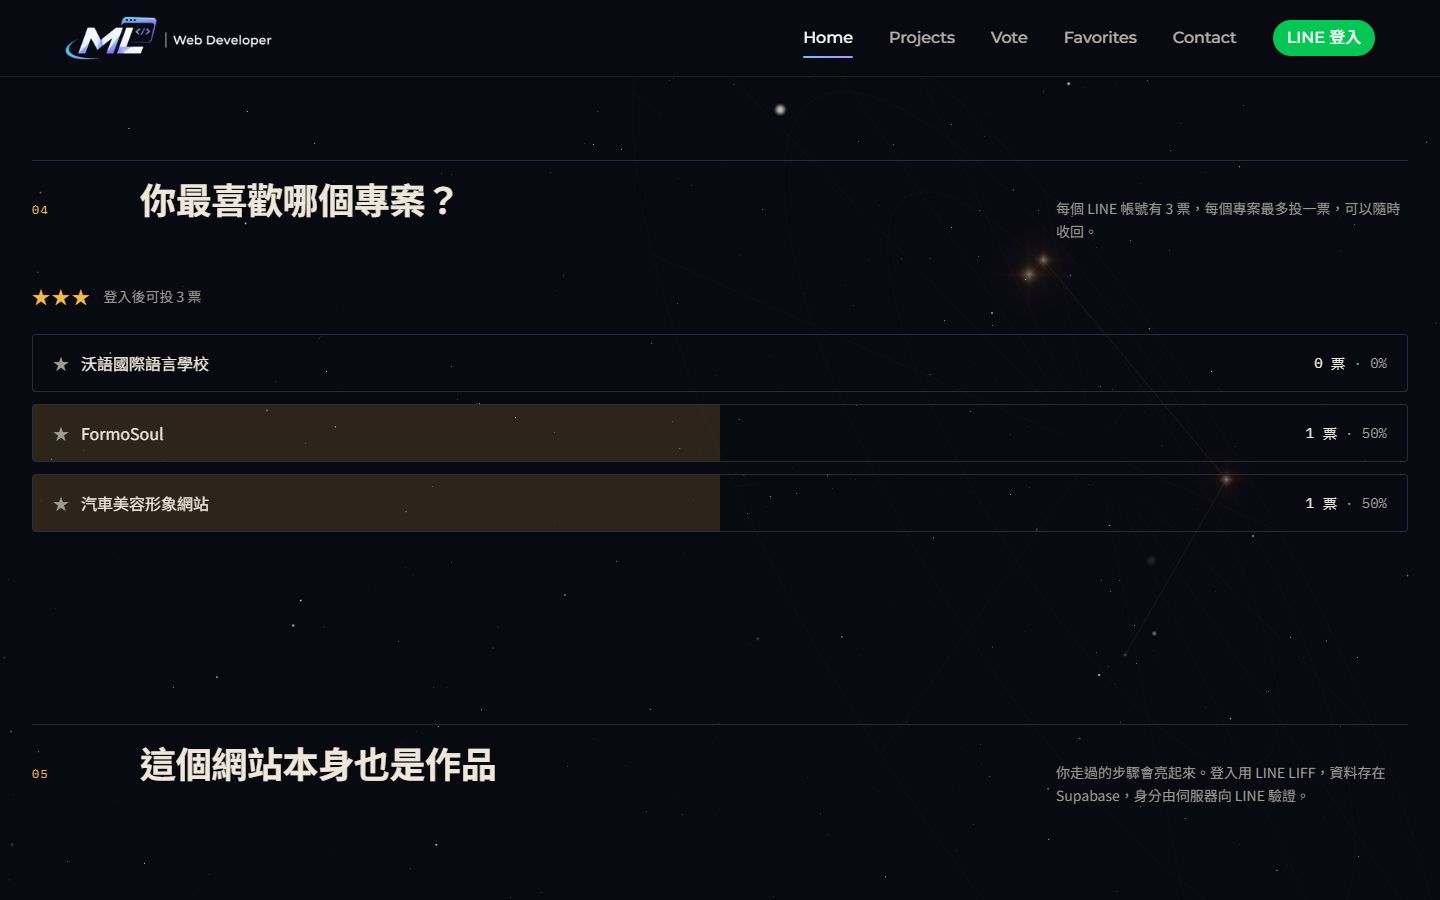
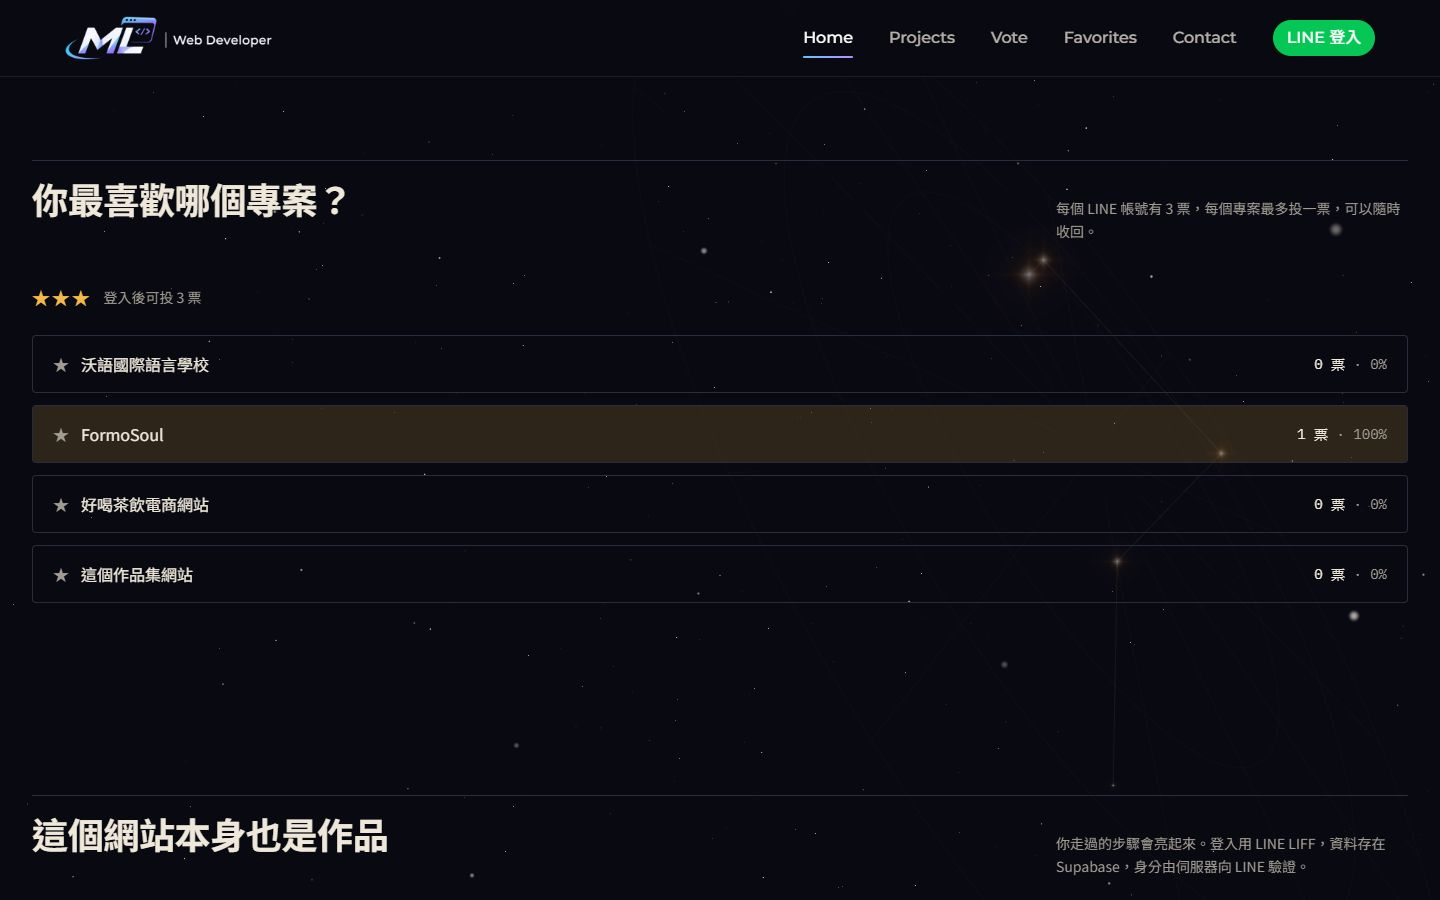
feat: 調整作品清單與形象網站區塊
- 主要作品新增電商網站、作品集，並預留製作中的洗衣系統
- 形象網站改為名稱加連結，不開放收藏與投票
- 移除區塊標題前的編號
- 更新 README 與截圖

diff --git a/src/components/HomeSections.tsx b/src/components/HomeSections.tsx
@@ -2,16 +2,15 @@
 
 import Image from "next/image";
 import Link from "next/link";
-import { activeProjects, projects, type Project } from "@/data/projects";
+import { activeProjects, otherSites, projects, type Project } from "@/data/projects";
 import { MAX_VOTES } from "@/data/site";
 import { CountUp } from "./Motion";
 import { usePortfolio } from "./PortfolioProvider";
 import { ProjectActions } from "./ProjectActions";
 
-function SectionHead({ index, title, note }: { index: string; title: string; note?: string }) {
+function SectionHead({ title, note }: { title: string; note?: string }) {
   return (
-    <div data-reveal className="mb-10 grid gap-3 border-t border-rule pt-5 sm:grid-cols-[6rem_1fr_minmax(0,22rem)] sm:items-baseline">
-      <span className="font-mono text-xs tracking-widest text-star">{index}</span>
+    <div data-reveal className="mb-10 grid gap-3 border-t border-rule pt-5 sm:grid-cols-[1fr_minmax(0,22rem)] sm:items-baseline">
       <h2 className="font-display text-3xl sm:text-4xl">{title}</h2>
       {note && <p className="text-sm leading-relaxed text-muted">{note}</p>}
     </div>
@@ -84,7 +83,6 @@ export function Ranking() {
   return (
     <section id="ranking" className="relative z-10 px-5 py-24 sm:px-8">
       <SectionHead
-        index="01"
         title="熱門專案 TOP 5"
         note={
           state && empty
@@ -159,54 +157,45 @@ function FeaturedCard({ project, index }: { project: Project; index: number }) {
 }
 
 export function Featured() {
-  const featured = activeProjects.filter((p) => p.group === "featured");
-  const upcoming = projects.find((p) => p.soon);
+  const upcoming = projects.filter((p) => p.soon);
   return (
     <section id="works" className="relative z-10 scroll-mt-16 px-5 py-24 sm:px-8">
-      <SectionHead index="02" title="主要作品" />
+      <SectionHead title="主要作品" />
       <div className="flex flex-col gap-20">
-        {featured.map((p, i) => (
+        {activeProjects.map((p, i) => (
           <FeaturedCard key={p.id} project={p} index={i} />
         ))}
-        {upcoming && (
-          <div data-reveal className="border border-dashed border-rule px-6 py-12 text-center">
-            <p className="font-display text-2xl text-bone/70">{upcoming.title}</p>
-            <p className="mt-2 text-sm text-muted">第三個專案製作中，完成後會出現在星圖上。</p>
+        {upcoming.map((p) => (
+          <div key={p.id} data-reveal className="border border-dashed border-rule px-6 py-12 text-center">
+            <p className="text-sm text-star">{p.subtitle}</p>
+            <p className="mt-2 font-display text-2xl text-bone/80">{p.title}</p>
+            <p className="mx-auto mt-3 max-w-xl text-sm leading-relaxed text-muted">{p.summary}</p>
           </div>
-        )}
+        ))}
       </div>
     </section>
   );
 }
 
 export function OtherWorks() {
-  const others = activeProjects.filter((p) => p.group === "other");
   return (
     <section className="relative z-10 px-5 py-24 sm:px-8">
-      <SectionHead index="03" title="形象網站" />
-      <ul className="border-b border-rule">
-        {others.map((p) => (
-          <li key={p.id} data-reveal className="grid gap-4 border-t border-rule py-7 sm:grid-cols-[1fr_auto] sm:items-center">
-            <div>
-              <h3 className="text-xl">
-                <Link href={`/projects/${p.id}`} className="transition hover:text-star">
-                  {p.title}
-                  <span className="text-muted">｜{p.subtitle}</span>
-                </Link>
-              </h3>
-              <p className="mt-2 max-w-2xl text-sm leading-relaxed text-muted">{p.summary}</p>
-              <p className="mt-2 text-sm text-muted">
-                專案網址：
-                {p.url ? (
-                  <a href={p.url} target="_blank" rel="noreferrer" className="text-bone underline underline-offset-4">
-                    {p.urlNote ?? p.url}
-                  </a>
-                ) : (
-                  p.urlNote
-                )}
-              </p>
-            </div>
-            <ProjectActions projectId={p.id} />
+      <SectionHead title="形象網站" />
+      <ul data-reveal className="flex flex-wrap gap-x-10 gap-y-4 text-lg">
+        {otherSites.map((site) => (
+          <li key={site.name}>
+            {site.url ? (
+              <a
+                href={site.url}
+                target="_blank"
+                rel="noreferrer"
+                className="underline decoration-bone/40 underline-offset-[6px] transition hover:text-star hover:decoration-star"
+              >
+                {site.name}
+              </a>
+            ) : (
+              site.name
+            )}
           </li>
         ))}
       </ul>
@@ -221,7 +210,7 @@ export function VoteSection() {
 
   return (
     <section id="vote" className="relative z-10 scroll-mt-16 px-5 py-24 sm:px-8">
-      <SectionHead index="04" title="你最喜歡哪個專案？" note={`每個 LINE 帳號有 ${MAX_VOTES} 票，每個專案最多投一票，可以隨時收回。`} />
+      <SectionHead title="你最喜歡哪個專案？" note={`每個 LINE 帳號有 ${MAX_VOTES} 票，每個專案最多投一票，可以隨時收回。`} />
       <p data-reveal className="mb-6 flex items-center gap-3 text-sm text-muted">
         <span aria-hidden="true" className="text-lg tracking-widest text-star">
           {stars.map((on, i) => (
@@ -285,7 +274,7 @@ export function LoopSection() {
   ];
   return (
     <section className="relative z-10 px-5 py-24 sm:px-8">
-      <SectionHead index="05" title="這個網站本身也是作品" note="你走過的步驟會亮起來。登入用 LINE LIFF，資料存在 Supabase，身分由伺服器向 LINE 驗證。" />
+      <SectionHead title="這個網站本身也是作品" note="你走過的步驟會亮起來。登入用 LINE LIFF，資料存在 Supabase，身分由伺服器向 LINE 驗證。" />
       <ol data-reveal className="grid gap-px border border-rule bg-rule sm:grid-cols-2 lg:grid-cols-7">
         {steps.map((s, i) => (
           <li key={s.label} className="bg-ink p-5">

diff --git a/src/data/projects.ts b/src/data/projects.ts
@@ -8,7 +8,6 @@ export type Project = {
   id: string;
   title: string;
   subtitle: string;
-  group: "featured" | "other";
   /** soon = 還沒上線的預留位，不計入排行與投票 */
   soon?: boolean;
   summary: string;
@@ -17,10 +16,10 @@ export type Project = {
   stack: string[];
   features: Feature[];
   url?: string;
-  /** 沒有可公開網址時顯示的文字 */
-  urlNote?: string;
+  /** 外部連結按鈕的文字，預設為「開啟網站」 */
+  linkLabel?: string;
   cover?: string;
-  /** 星圖上的位置 */
+  /** 星圖上的位置，連線依陣列順序 */
   star: [number, number, number];
   line?: {
     addFriendUrl: string;
@@ -29,12 +28,12 @@ export type Project = {
   };
 };
 
+/** 熱門專案：有專案頁、會進星圖、排行與投票 */
 export const projects: Project[] = [
   {
     id: "verbora",
     title: "沃語國際語言學校",
     subtitle: "Verbora Language School",
-    group: "featured",
     summary:
       "以虛構語言學校為題的完整網站，把 LINE 當成會員入口：登入、加好友、分享、活動報到都走 LIFF，資料再回到後台與試算表。",
     stack: ["Next.js", "TypeScript", "Tailwind CSS", "Supabase", "LINE LIFF", "Google Sheets", "Vercel"],
@@ -58,7 +57,6 @@ export const projects: Project[] = [
     id: "formosoul",
     title: "FormoSoul",
     subtitle: "台灣哈利波特｜七人團隊專案",
-    group: "featured",
     summary:
       "前端養成班的七人團隊專案。擔任組長，負責首頁 3D 動畫、最新消息，以及全部後台頁面。",
     role: "組長、前端開發",
@@ -70,35 +68,61 @@ export const projects: Project[] = [
     star: [0.75, 1.05, -0.3],
   },
   {
-    id: "car-detailing",
-    title: "汽車美容形象網站",
-    subtitle: "前端開發",
-    group: "other",
-    summary: "獨立完成 RWD 響應式網站、JavaScript 互動動畫、SEO 基礎設定及 Netlify 部署。",
-    role: "前端開發",
-    stack: ["JavaScript", "RWD", "SEO", "Netlify"],
+    id: "tea-ecommerce",
+    title: "好喝茶飲電商網站",
+    subtitle: "React 電商平台",
+    summary:
+      "把 Vue 的開發經驗轉換到 React 的電商練習作品，完整實作商品瀏覽、分類篩選、購物車與結帳流程，並支援 LINE 登入。",
+    stack: ["React", "React Router", "Context API", "MUI", "Axios", "LINE LIFF", "Vercel"],
     features: [
-      { label: "RWD 響應式網站" },
-      { label: "JavaScript 互動動畫" },
-      { label: "SEO 基礎設定" },
-      { label: "Netlify 部署" },
+      { label: "動態購物車與金額計算" },
+      { label: "商品分類篩選與搜尋" },
+      { label: "結帳流程" },
+      { label: "LINE 會員登入" },
+      { label: "RWD 響應式版面" },
     ],
-    urlNote: "已公開的客戶官網",
-    star: [1.3, -0.35, 0.3],
+    url: "https://react-ecommerce-tea-website.vercel.app/",
+    cover: "/covers/tea.jpg",
+    star: [1.3, -0.2, 0.3],
   },
   {
-    id: "next-project",
-    title: "下一顆星",
-    subtitle: "第三個熱門專案",
-    group: "featured",
+    id: "portfolio",
+    title: "這個作品集網站",
+    subtitle: "ML Portfolio",
+    summary:
+      "你正在看的這個網站。瀏覽、收藏與投票都寫進資料庫，排行和星圖會跟著改變，身分由伺服器向 LINE 驗證。",
+    stack: ["Next.js", "TypeScript", "Tailwind CSS", "Three.js", "GSAP", "Supabase", "LINE LIFF", "Vercel"],
+    features: [
+      { label: "瀏覽統計與熱門排行" },
+      { label: "綁定 LINE 帳號的收藏" },
+      { label: "每個帳號 3 票的專案投票" },
+      { label: "由統計數字驅動的 3D 星圖" },
+    ],
+    url: "https://github.com/michael9487/ml-portfolio",
+    linkLabel: "看原始碼",
+    cover: "/covers/portfolio.jpg",
+    star: [0.35, -0.6, -0.1],
+  },
+  {
+    id: "laundry",
+    title: "LINE 自助洗衣系統",
+    subtitle: "製作中",
     soon: true,
-    summary: "製作中。",
+    summary: "在 LINE 裡掃洗衣機上的 QR Code 就能啟動機台、查看剩餘時間，洗好時收到 LINE 推播。",
     stack: [],
     features: [],
-    star: [-0.15, -0.95, 0],
+    star: [-0.95, -1.25, 0.1],
   },
 ];
 
 export const activeProjects = projects.filter((p) => !p.soon);
 export const activeIds = new Set(activeProjects.map((p) => p.id));
 export const getProject = (id: string) => activeProjects.find((p) => p.id === id);
+
+/** 其他形象網站：只列名稱與連結，沒有專案頁，也不開放收藏與投票 */
+export const otherSites: { name: string; url?: string }[] = [
+  { name: "真愛桃花源", url: "https://xn--vgu42njsflzjh5o.tw/" },
+  { name: "B Line 餐酒館", url: "https://blinebyatrain.com.tw/" },
+  { name: "田馨裝潢", url: "https://tc422.com/" },
+  { name: "澎湖民宿", url: "https://xn--9iqv14adwmm9bt0b665bfpd.tw/" },
+];

diff --git a/src/app/projects/[slug]/page.tsx b/src/app/projects/[slug]/page.tsx
@@ -52,10 +52,9 @@ export default async function ProjectPage({ params }: Props) {
             rel="noreferrer"
             className="rounded-full bg-bone px-5 py-2 text-sm font-medium text-ink transition hover:bg-star"
           >
-            開啟網站 ↗
+            {project.linkLabel ?? "開啟網站"} ↗
           </a>
         )}
-        {!project.url && project.urlNote && <span className="text-sm text-muted">專案網址：{project.urlNote}</span>}
       </div>
 
       {project.cover && (
@@ -66,7 +65,7 @@ export default async function ProjectPage({ params }: Props) {
 
       <div className="mt-14 grid gap-10 sm:grid-cols-2">
         <section>
-          <h2 className="font-display text-2xl">{project.group === "featured" ? "我做了什麼" : "內容"}</h2>
+          <h2 className="font-display text-2xl">主要功能</h2>
           <ul className="mt-4 border-b border-rule">
             {project.features.map((f) => (
               <li key={f.label} className="flex items-baseline justify-between gap-4 border-t border-rule py-3">

diff --git a/README.md b/README.md
@@ -67,7 +67,11 @@ flowchart LR
 | --- | --- | --- |
 | [沃語國際語言學校](https://verbora-language-school.vercel.app/) | 以虛構語言學校為題的完整網站，含 LINE 會員登入、加好友、分享、掃碼報到與小型後台 | Next.js、TypeScript、Tailwind CSS、Supabase、LINE LIFF、Google Sheets |
 | [FormoSoul](https://tibamef2e.com/tjd103/home) | 七人團隊組長；負責首頁 3D 動畫、最新消息與全部後台頁面 | Vue 3、MySQL、PHP、Element Plus、GSAP、Three.js |
-| 汽車美容形象網站 | 前端開發；獨立完成 RWD、JavaScript 互動動畫、SEO 基礎設定與部署 | JavaScript、Netlify |
+| [好喝茶飲電商網站](https://react-ecommerce-tea-website.vercel.app/) | React 電商作品，含購物車、分類篩選、結帳流程與 LINE 登入 | React、React Router、Context API、MUI、LINE LIFF |
+| 這個作品集網站 | 你正在看的專案 | Next.js、Three.js、GSAP、Supabase、LINE LIFF |
+| LINE 自助洗衣系統（製作中） | 掃 QR Code 啟動機台、查看剩餘時間、洗好收到 LINE 推播 | Next.js、Supabase、LINE LIFF |
+
+另外還有數個形象網站，列在網站的「形象網站」區塊。
 
 ## 技術選擇
 
@@ -158,4 +162,4 @@ supabase/schema.sql    資料表、權限與資料庫函式
 
 ## 新增作品
 
-在 [`src/data/projects.ts`](src/data/projects.ts) 加一筆資料，星圖、排行、投票和專案頁都會自動出現。
+在 [`src/data/projects.ts`](src/data/projects.ts) 的 `projects` 加一筆資料，星圖、排行、投票和專案頁都會自動出現。只想列名稱和連結的網站，加到同一個檔案的 `otherSites`。
